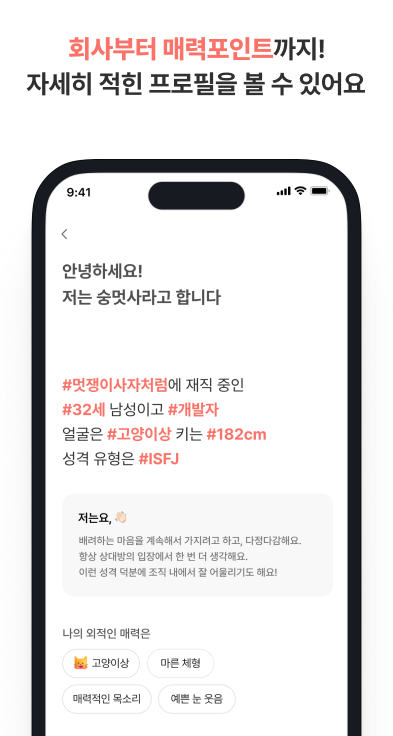
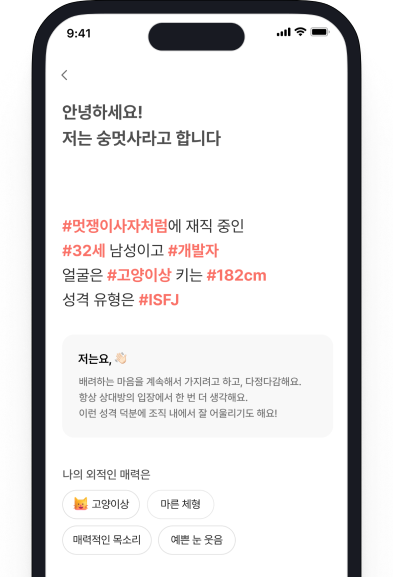
feat: 설명 페이지 모바일 뷰

Changed region(s): [[0.1527, 0.312, 0.7634, 0.9671], [0.0611, 0.0, 0.9466, 0.312], [0.3969, 0.8423, 0.5802, 0.9671]]

diff --git a/src/login/index.tsx b/src/login/index.tsx
@@ -62,8 +62,10 @@ const Login = () => {
             <StTopMent>한 번의 눈길,</StTopMent>
             <StTopMent>한 잔의 커피,</StTopMent>
             <StLine src={line} />
-            <StBottomDot>• •</StBottomDot>
-            <StBottomMent>한 명의 인연</StBottomMent>
+            <StBottomMent>
+              •&nbsp;•&nbsp;
+              <br />한 명의 인연
+            </StBottomMent>
             <StLoginBox>
               <StPrement>현재는 사전신청을 받고 있어요</StPrement>
               <StButton onClick={handleLogin}>카카오톡으로 로그인하기</StButton>
@@ -100,15 +102,43 @@ const Login = () => {
           </Footer>
         </div>
         <div css={infoContainer}>
+          <StCarouselMent>
+            <StBlackMent>
+              <StPinkMent>회사 이메일 인증</StPinkMent>이 완료된
+              <br />
+              직장인만 사용할 수 있어요
+            </StBlackMent>
+          </StCarouselMent>
           <img src={Carousel1} css={carouselImage} />
         </div>
         <div css={infoContainer}>
+          <StCarouselMent>
+            <StBlackMent>
+              <StPinkMent>회사부터 매력포인트</StPinkMent>까지!
+              <br />
+              자세히 적힌 프로필을 볼 수 있어요
+            </StBlackMent>
+          </StCarouselMent>
           <img src={Carousel2} css={carouselImage} />
         </div>
         <div css={infoContainer}>
+          <StCarouselMent>
+            <StBlackMent>
+              <StPinkMent>마음에 드는 이성이 있다면</StPinkMent>
+              <br />
+              지금 바로 눈길을 보내보세요 👀💕
+            </StBlackMent>
+          </StCarouselMent>
           <img src={Carousel3} css={carouselImage} />
         </div>
         <div css={infoContainer}>
+          <StCarouselMent>
+            <StBlackMent>
+              <StPinkMent>설레는 첫 만남</StPinkMent>을 위해
+              <br />
+              최적의 시간과 장소도 추천드려요
+            </StBlackMent>
+          </StCarouselMent>
           <img src={Carousel4} css={carouselImage} />
         </div>
       </StSlider>
@@ -119,14 +149,13 @@ const Login = () => {
 export default Login;
 
 const StCarouselContainer = styled.div`
-  display: flex;
-  flex-direction: row;
   width: 100vw;
-  height: 100%;
+  height: 100vh;
 
   .slick-slider {
     z-index: 2;
     width: 100%;
+    height: 100vh;
   }
 `;
 
@@ -137,11 +166,12 @@ const StSlider = styled(Slider)<{ currentSlide: number }>`
     display: block;
     display: ${(props) => (props.currentSlide === 0 ? 'block' : 'none')};
     padding: 0;
-    margin-top: 11rem;
+    margin-top: 8rem;
     text-align: center;
     list-style: none;
-    visibility: ${(props) => (props.currentSlide === 0 ? 'hidden' : 'visible')};
-    opacity: ${(props) => (props.currentSlide === 0 ? 0 : 1)};
+    visibility: ${(props) =>
+      props.currentSlide === 0 ? 'visible' : 'visible'};
+    opacity: ${(props) => (props.currentSlide === 0 ? 1 : 1)};
   }
 
   .slick-dots li {
@@ -166,7 +196,7 @@ const StSlider = styled(Slider)<{ currentSlide: number }>`
     position: absolute;
     top: 0;
     left: 0;
-    font-size: 5vw;
+    font-size: 4vw;
     color: rgb(184 184 184);
     text-align: center;
     content: '•';
@@ -186,10 +216,9 @@ const StSlider = styled(Slider)<{ currentSlide: number }>`
   }
 
   .slick-dots li.slick-active button::before {
-    font-size: 6vw;
-    ${({ theme }) => theme.colors.primary};
-
-    opacity: 1;
+    font-size: 5vw;
+    color: black;
+    opacity: 0.75;
   }
 `;
 
@@ -203,52 +232,78 @@ const loginContainer = css`
 `;
 
 const StLogo = styled.img`
-  width: 5rem;
-  margin-bottom: 1.7rem;
+  width: 6rem;
+  margin-bottom: 0.7rem;
 `;
 
 const StTopMent = styled.p`
-  font-size: 3.6rem;
+  font-size: 2.5rem;
   font-weight: 500;
   color: #fff;
   letter-spacing: -0.3px;
 `;
 
 const StLine = styled.img`
-  height: 21rem;
-  margin-top: 2.1rem;
-`;
-
-const StBottomDot = styled.p`
-  margin-left: 12rem;
-  font-size: 3.6rem;
-  font-weight: 800;
-  color: #fff;
+  height: 10rem;
+  margin-top: 1rem;
 `;
 
 const StBottomMent = styled.p`
-  font-size: 3.6rem;
+  font-size: 2.5rem;
   font-weight: 800;
+  line-height: 3rem;
   color: #fff;
+  text-align: end;
+  letter-spacing: 0.3px;
 `;
 
 const infoContainer = css`
+  box-sizing: border-box;
   display: flex;
-  flex-direction: row;
-  align-items: end;
+  align-items: center;
   justify-content: center;
-  margin-top: 14rem;
+  height: 100vh;
+  padding: 0 3.5rem;
+  margin-top: 12rem;
 `;
 
 const backgroundImage = css`
   position: absolute;
   z-index: 1;
-  height: calc(var(--vh, 1vh) * 100);
+  width: 100vw;
+  max-width: 42.5rem;
+  height: 100vh;
+`;
+
+const StCarouselMent = styled.div`
+  display: flex;
+  flex-direction: row;
+  align-items: center;
+  justify-content: center;
+  margin: 1.5rem 0 3rem;
+`;
+
+const StBlackMent = styled.p`
+  font-size: 2.2rem;
+  font-weight: 700;
+  line-height: 3rem;
+  color: ${({ theme }) => theme.colors.gray9};
+  text-align: center;
+  letter-spacing: -0.3px;
+`;
+
+const StPinkMent = styled.span`
+  font-size: 2.2rem;
+  font-weight: 800;
+  color: ${({ theme }) => theme.colors.primary};
+  text-align: center;
+  letter-spacing: -0.3px;
 `;
 
 const carouselImage = css`
   width: 100%;
   max-width: 42.5rem;
+  height: auto;
 `;
 
 const containerStyles = css`
@@ -261,25 +316,8 @@ const containerStyles = css`
   justify-content: start;
   width: 100%;
   height: 100vh;
-  padding: 6.5rem 3rem 4rem;
+  padding: 6rem 3rem 4rem;
 `;
-
-// const logoBoxStyles = css`
-//   display: flex;
-//   flex-direction: column;
-//   gap: 2rem;
-//   align-items: center;
-//   justify-content: center;
-// `;
-
-// const StLogo = styled.img`
-//   width: 10rem;
-// `;
-
-// const StExplain = styled.p`
-//   color: ${({ theme }) => theme.colors.primary};
-//   ${({ theme }) => theme.fonts.subtitle2b};
-// `;
 
 const StLoginBox = styled.div`
   display: flex;
@@ -291,7 +329,7 @@ const StLoginBox = styled.div`
 
 const StPrement = styled.p`
   padding: 1.1rem 2.2rem;
-  margin-top: 8.6rem;
+  margin-top: 4rem;
   font-size: 1.4rem;
   font-weight: 700;
   color: ${({ theme }) => theme.colors.gray1};
@@ -337,6 +375,7 @@ const Footer = styled.footer`
   flex-direction: column;
   gap: 2rem;
   padding-left: 3rem;
+  margin-top: 10rem;
   margin-bottom: 3rem;
   color: #fff;
 
